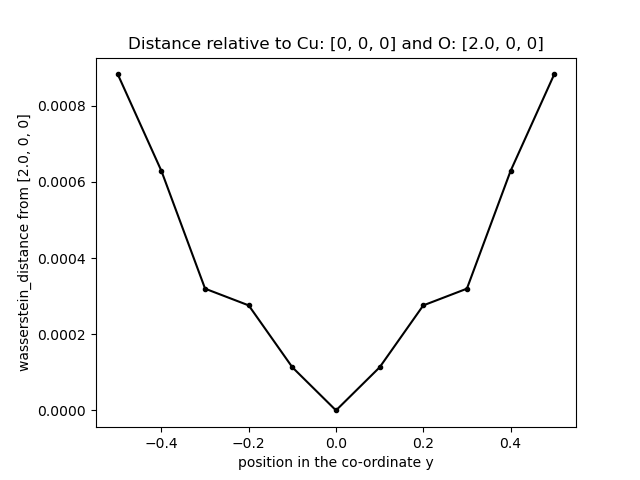
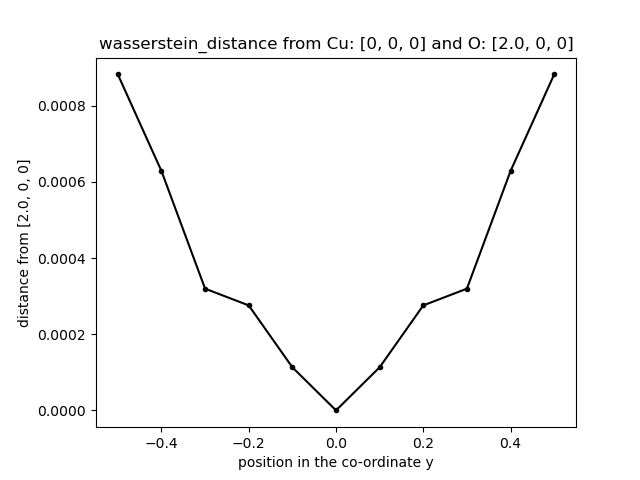
update the plots and the distances code

Changed region(s): [[0.1562, 0.0625, 0.9062, 0.125], [0.0312, 0.25, 0.0625, 0.7812]]

diff --git a/distances.py b/distances.py
@@ -20,9 +20,9 @@ def chi2_distance(A, B):
     return chi 
 
 
-# distance_function = mse_distance_function
+distance_function = mse_distance_function
 # distance_function = chi2_distance
-distance_function = wasserstein_distance
+# distance_function = wasserstein_distance
 
 distance_function_name = str(distance_function.__name__)
 
@@ -101,9 +101,9 @@ for i in range(3):
     plt.subplots_adjust(left=0.15)
     ax.plot(x_axis, y_axis, **{'color': 'black', 'marker': '.'})
 
-    ax.set_title(f"Distance relative to Cu: {str(Cu_location)} and O: {str(O_location)}")
+    ax.set_title(f"{distance_function_name} from Cu: {str(Cu_location)} and O: {str(O_location)}")
     ax.set_xlabel(f"position in the co-ordinate {index_to_coordinate[i]}")
-    ax.set_ylabel(f"{distance_function_name} from {str(O_location)}")
+    ax.set_ylabel(f"distance from {str(O_location)}")
 
     figure_path = f"{index_to_coordinate[i]}_co-ordinate_{distance_function_name}.png"
     plt.savefig(figure_path)
